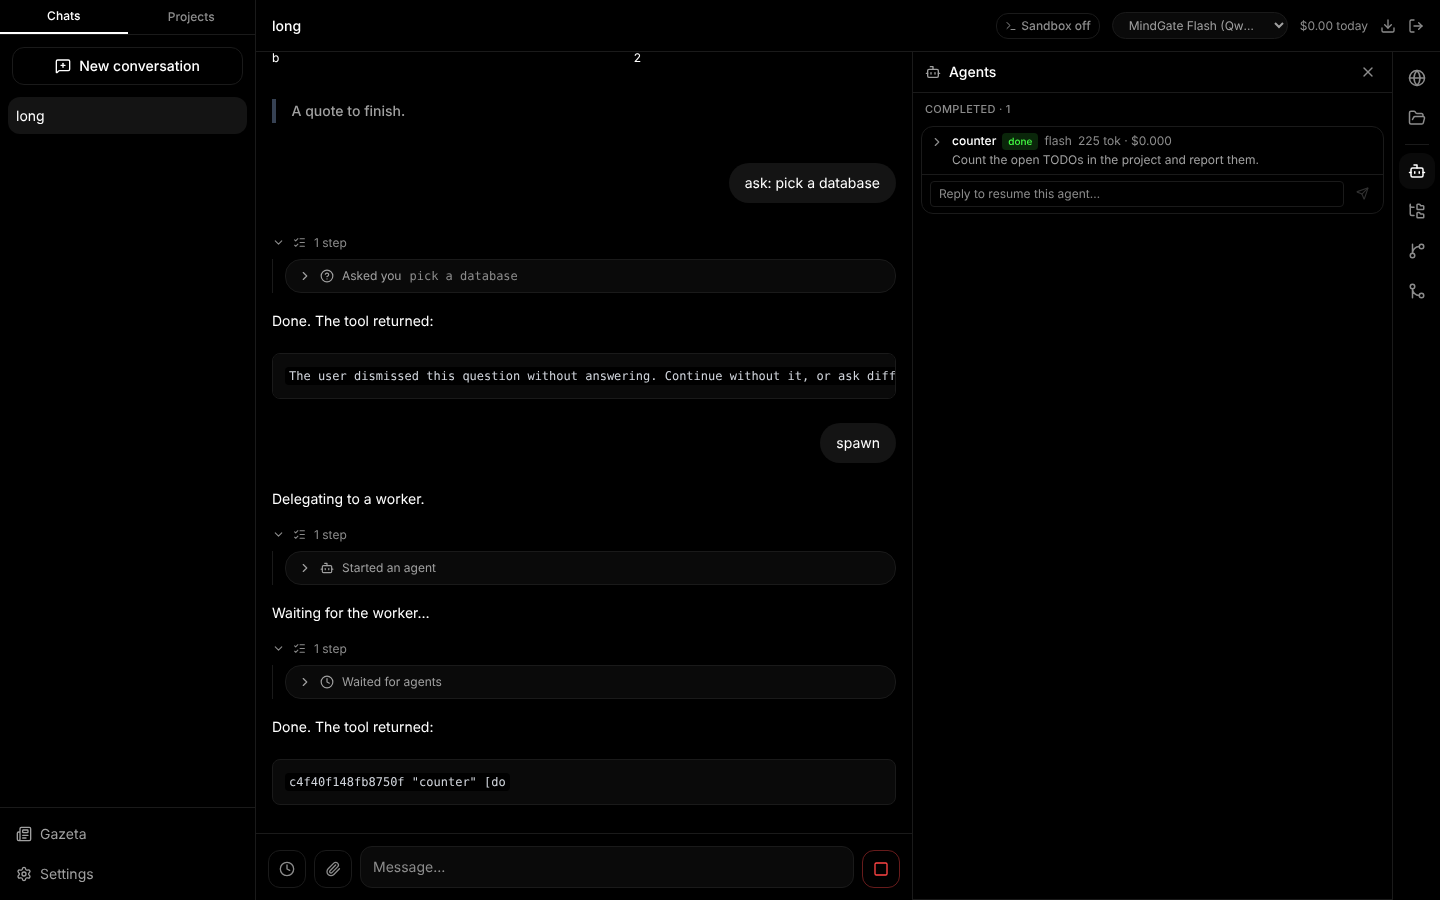
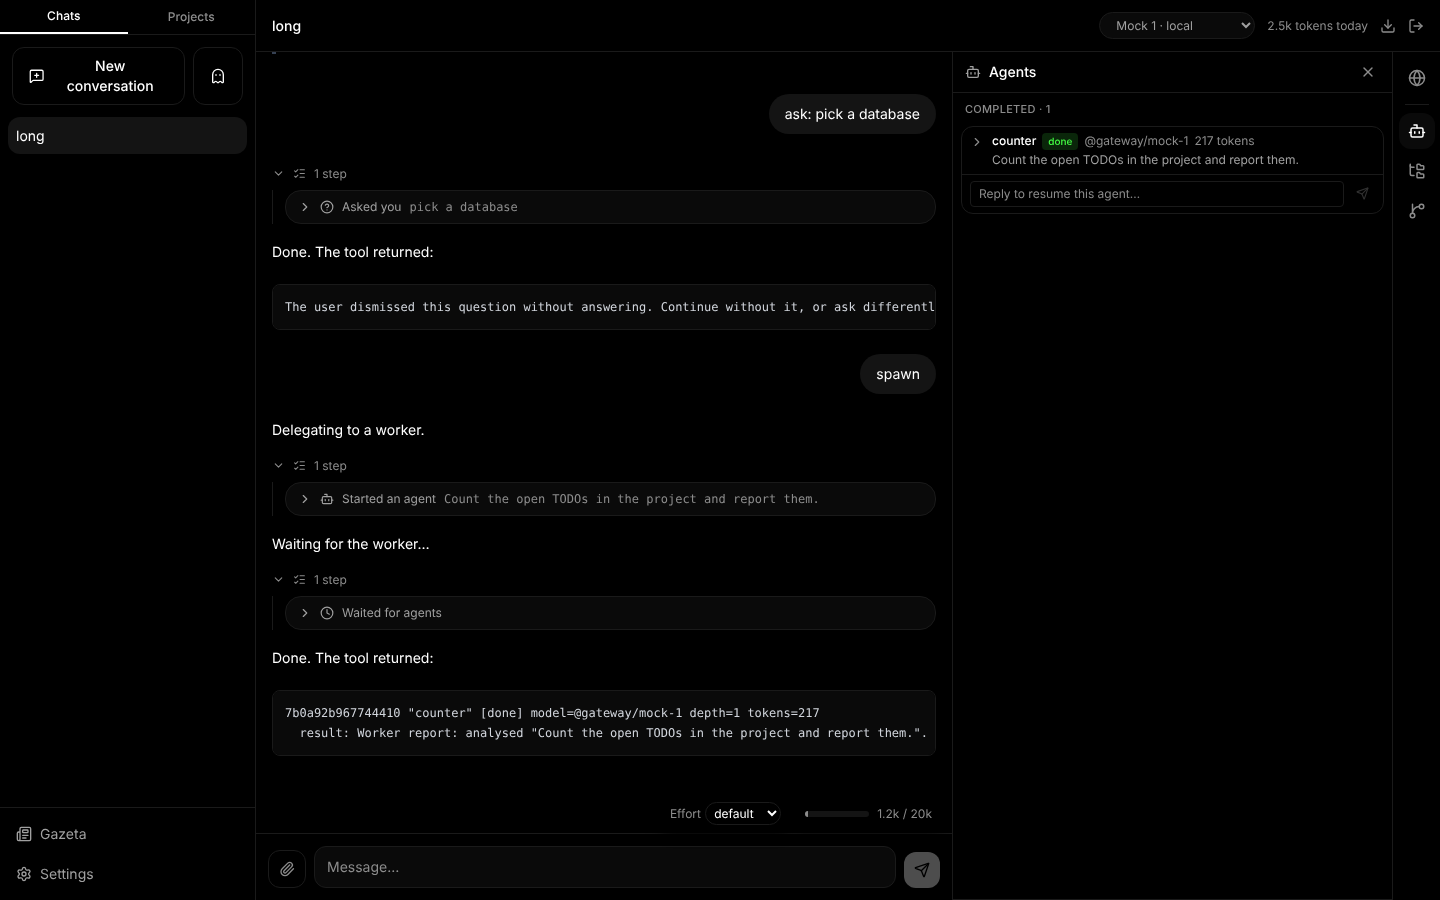
docs: rewrite the README, refresh the screenshots, replace the web boilerplate
Quickstart now matches the provider form (the MINDGATE_BASE_URL prefill is gone), repository URLs use the real name,
and claims that nothing in this repository backs up (a browser E2E suite, axe results, a test-count badge) are dropped.
The screenshot script also captures Settings → Models.

diff --git a/README.md b/README.md
@@ -1,134 +1,143 @@
 # EverythingApp
 
-[![CI](https://github.com/prod-explore/EverythingApp/actions/workflows/ci.yml/badge.svg)](https://github.com/prod-explore/EverythingApp/actions/workflows/ci.yml)
-![tests](https://img.shields.io/badge/tests-859%20passing-brightgreen)
+[![CI](https://github.com/prod-explore/everything-app/actions/workflows/ci.yml/badge.svg)](https://github.com/prod-explore/everything-app/actions/workflows/ci.yml)
 ![node](https://img.shields.io/badge/node-22-339933)
 ![license](https://img.shields.io/badge/license-MIT-blue)
 
-A **self-hosted, bring-your-own-key AI workspace**: multi-provider chat, a sandboxed code agent that can browse the web and work with Git, multi-agent delegation with a free-model cost guard, and a human-in-the-loop inbox — designed so that the *model is never trusted*, only the action layer is.
+A **self-hosted, bring-your-own-key AI workspace** for one person: multi-provider chat, a sandboxed code agent that can browse the web and work with Git, multi-agent delegation behind a cost guard, and a human-in-the-loop inbox. It is built on one rule: **the model is never trusted — only the action layer is.**
 
 ![Chat](docs/img/chat.png)
 
 <table>
 <tr>
 <td width="50%"><img src="docs/img/question.png" alt="Agent asks a question"><br><sub>Agents ask blocking questions (choices, free text, forms) or park them in the inbox.</sub></td>
-<td width="50%"><img src="docs/img/agents.png" alt="Agents panel"><br><sub>Workers keep their transcript; finished agents stay under <i>Completed</i> and can be resumed.</sub></td>
+<td width="50%"><img src="docs/img/agents.png" alt="Agents panel"><br><sub>Workers keep their transcript; finished ones stay under <i>Completed</i> and can be resumed.</sub></td>
 </tr>
 <tr>
-<td><img src="docs/img/search.png" alt="Full-text search"><br><sub>SQLite FTS5 search over every message (⌘/Ctrl+K).</sub></td>
+<td><img src="docs/img/models.png" alt="Providers and model slots"><br><sub>A provider is a base URL and a key. Chat, helper, agent and escalation models are separate slots.</sub></td>
+<td><img src="docs/img/search.png" alt="Full-text search"><br><sub>SQLite FTS5 search over every message (Ctrl/⌘+K).</sub></td>
+</tr>
+<tr>
 <td><img src="docs/img/slash.png" alt="Slash commands"><br><sub>Slash commands in the composer.</sub></td>
+<td align="center"><img src="docs/img/mobile.png" alt="Mobile layout" width="180"><br><sub>Installable PWA, usable at 390 px.</sub></td>
 </tr>
 </table>
 
-<p align="center"><img src="docs/img/mobile.png" alt="Mobile" width="260"></p>
+<sub>Screenshots are taken from a seeded local run against a deterministic mock model (`tools/mock-llm`, `tools/screenshots.mjs`), so the replies are canned.</sub>
 
-## Highlights
+## What it does
 
-| Area | What it does |
-|---|---|
-| **Providers** | One OpenAI-compatible format for everything: a provider is just *base URL + key* — OpenAI, OpenRouter, a gateway such as MindGate, a LAN server all go through the same “Add provider” form, and the app has no code that depends on who the provider is. Models are discovered from `GET {base}/models` (with `kind` and free-form `tags`: `free`, `coder`, `reasoning`…) and can be edited per model. Internally one block-based message format of its own (no vendor SDK); the adapter translates. Models without tool calls are not supported. Thinking models show their reasoning in a collapsible block. The app keeps no prices — usage is counted in tokens, money is the gateway's job. Keys are AES-256-GCM encrypted at rest. |
-| **Model slots & cost guard** | Pick a chat default, a helper (titles, digest), an agent model and an escalation model. A chat on a `free` model can only start `free` workers unless “Allow agents to use paid models” is on. The orchestrator gets a generated list of the installed models and their tags to choose from. |
-| **Agents** | `spawn_agent` / `wait_agents` / `send_message`. Per-tree budgets, depth and spawn limits, kill switch. Finished workers can be resumed with a follow-up. |
-| **Sandbox** | Every chat has one (a project's chats share theirs): a Docker container with no secrets and no `docker.sock`. Files explorer (read-only preview, pencil to edit, pins at the top for what you want at hand) with a checkpoint before every edit, rollback, Source Control and GitHub in any chat. |
-| **Web access** | `web_search` (SearXNG or Brave, set in Settings → Web) and `web_fetch` (page → markdown, no JavaScript), plus a Playwright browser agent with live view. `web_fetch` opens addresses from your message or from search results freely (as in Claude) and asks per domain for any URL the model composed itself; the browser asks **once per domain** — Allow once / this chat / always — like Antigravity's browser agent; private networks are never reachable — with one exception: the chat's own dev server, which `preview_sandbox` links to the same browser over a private no-route-out network (see [ADR 0012](docs/adr/0012-web-access.md)). No model sits between a page and the agent. |
-| **Chat functions** | `read_file` / `edit_file` / `write_file` (text files are edited without asking — a checkpoint is taken every turn), task list the model keeps (`todo_write`), plan proposals (the model proposes, you approve, then it works), reasoning-effort control, `AGENTS.md` in the project workspace (`/init` has the assistant write it) and custom instructions, a context meter with automatic and manual compaction (older messages become a summary for the model; they stay visible), and plain-language errors with the right recovery button. |
-| **Ghost mode** | A chat or project that never leaves the machine: only models marked **local** (a MindGate node, or a LAN server you flagged), no web or browser tools, local-only helper and agents. Chosen when it is created and impossible to change afterwards — enforced by the database itself ([ADR 0013](docs/adr/0013-ghost-mode.md)). |
-| **Human in the loop** | Approval gate (inline cards), Gazeta inbox (blocking and async questions, reports), `policy.json` for always-allow / always-block. When something waits for you, the server can call a webhook (ntfy → your phone, Discord, Slack, …; Settings → Notifications) — a plain POST, no model involved, text minimal by default, content-free for private chats. |
-| **UX** | FTS5 search, Markdown/JSON export, message branching, quote-selection, slash commands, PWA, WCAG-AA clean (axe: 0 violations at 1440×900 and 390×844). |
+- **Any OpenAI-compatible provider.** A provider is just *base URL + key* — OpenAI, OpenRouter, LM Studio on the LAN, a gateway such as MindGate. There is no vendor SDK and no per-provider code; models are discovered from `GET {base}/models` and can be tagged and overridden. Keys are AES-256-GCM encrypted at rest. Details: [`docs/providers.md`](docs/providers.md).
+- **Model slots and a cost guard.** Separate models for chat, helper (titles, digest), agents and escalation. A chat on a `free` model can only start `free` workers unless paid ones are allowed.
+- **Multi-agent delegation.** `spawn_agent` / `wait_agents` / `send_message` with per-tree budgets, depth and spawn limits and a kill switch. Finished workers keep their transcript and can be resumed.
+- **A sandbox per chat.** A Docker container with no secrets and no `docker.sock` (a project's chats share one). File explorer, a checkpoint before every edit, rollback, source control and GitHub inside the app.
+- **Web access.** `web_search` (SearXNG or Brave), `web_fetch` (page → markdown, no JavaScript) and a Playwright browser agent with a live view you can take over. A URL the model composed itself needs your approval per domain; private networks are unreachable ([ADR 0012](docs/adr/0012-web-access.md)).
+- **Human in the loop.** Approval cards, blocking and asynchronous questions (the *Gazeta* inbox), `policy.json` for always-allow / always-block, and webhooks (ntfy, Discord, Slack…) when something waits for you.
+- **Ghost mode.** A chat or project that never leaves the machine: only models marked local, no web or browser tools. Chosen at creation and impossible to change afterwards — enforced by the database ([ADR 0013](docs/adr/0013-ghost-mode.md)).
+- **Long conversations.** A context meter, automatic and manual compaction (older messages become a summary for the model and stay visible), reasoning-effort control, plan proposals the model must get approved, and a task list it keeps.
+- **Everyday polish.** Full-text search, Markdown/JSON export, message branching, quoting a selection, slash commands, skills (reusable instructions with their own tool allow-list, auto-approved only for the turns they are attached to), PWA.
+- **Operable.** Consistent online backups, retention, schema versions and a network-layer egress guard for the browser ([ADR 0014](docs/adr/0014-data-lifecycle.md), [`deploy/`](deploy)).
+
+Single-user by design: one password, no accounts.
 
 ## Architecture
 
 ```mermaid
 flowchart LR
   subgraph Browser
-    UI[React 19 PWA<br/>assistant-ui · SSE]
+    UI[React 19 PWA<br/>REST · SSE · WebSocket]
   end
-  subgraph Orchestrator["Orchestrator (Node/Express)"]
-    API[REST + SSE]
-    LOOP[Agent loop<br/>tool registry · virtual tools]
+  subgraph Orchestrator["Orchestrator (Node, Express 5)"]
+    API[HTTP API<br/>session cookie]
+    LOOP[Agent loop<br/>tool registry]
     GATE[Approval gate<br/>+ policy.json]
     ROUTER[Provider router<br/>model catalog · key vault · retry]
-    AGENTS[AgentManager<br/>runs · budgets · cost guard]
-    DB[(SQLite<br/>FTS5)]
+    AGENTS[Agent manager<br/>budgets · cost guard]
+    DB[(SQLite · FTS5)]
   end
-  subgraph Isolated["Isolated networks"]
+  subgraph Isolated["Isolated Docker networks"]
     SUP[sandbox-supervisor] --> SBX[(sandbox<br/>container)]
-    PW[playwright-mcp]
+    PW[playwright-mcp<br/>browser agent]
     GP[git-proxy<br/>scoped tokens]
   end
   UI <--> API
-  API --> LOOP --> ROUTER --> LLM{{OpenAI-compatible providers<br/>any OpenAI-compatible API · gateway · local}}
-  LOOP --> GATE --> MCP[MCP: sandbox · browser · GitHub · custom]
-  LOOP --> AGENTS --> LOOP
   API --- DB
-  MCP --> SUP
-  MCP --> PW
+  API --> LOOP --> ROUTER --> LLM{{"LLM providers<br/>OpenAI-compatible: cloud · gateway · local"}}
+  LOOP --> GATE --> TOOLS["Tools: sandbox · browser · web · connectors"]
+  LOOP --> AGENTS --> LOOP
+  TOOLS --> SUP
+  TOOLS --> PW
   SBX -. git over HTTP, no credentials .-> GP --> GH[(github.com)]
   GP -- push approval --> GATE
 ```
 
-Packages: `cli` (orchestrator), `web` (UI), `sandbox-supervisor` + `sandbox-mcp` (container lifecycle and its MCP tools), `playwright-mcp` (browser agent), `git-proxy` (the only thing that ever sees a GitHub token), `tools/mock-llm` (deterministic fake model used by E2E and the screenshots above).
+| Package | Role |
+|---|---|
+| [`cli`](cli) | The orchestrator: HTTP API, agent loop, provider router, approval gate, SQLite. Serves the built UI. |
+| [`web`](web) | The React UI ([notes](web/README.md)). |
+| [`sandbox-supervisor`](sandbox-supervisor) | The only component that talks to Docker: container lifecycle, exec, files, volumes. |
+| [`sandbox-mcp`](sandbox-mcp) | The sandbox's tools (shell, git, checkpoints, terminals) as an MCP server in front of the supervisor. |
+| [`playwright-mcp`](playwright-mcp) | Browser agent: domain policy, SSRF guard, deterministic page filtering, live view. |
+| [`git-proxy`](git-proxy) | Holds the GitHub credentials the sandbox never sees: scoped tokens, repo binding, push approval, audit. |
+| [`tools/mock-llm`](tools/mock-llm) | Deterministic fake model used for the quickstart, tests and screenshots. |
+
+Design decisions are written down as short ADRs in [`docs/adr`](docs/adr) — canonical message format, policy as a file, sandbox and Git credentials, cookie sessions, lazy FTS index, the provider catalog, context management, hardening, web access, ghost mode, data lifecycle.
 
 ## Security model
 
 The model is treated as an untrusted component. The boundary is the **action layer**, not the prompt.
 
-1. **Approval gate** – every tool call with a side effect becomes an approval card; grants are scoped (this call / this project / this prefix). Shell commands go through a policy engine (`strict`, `allowlist`, `auto-in-sandbox`); destructive patterns are always blocked.
-2. **No secrets in the sandbox** – the container has no API keys, no `docker.sock`, no database. Git goes through `git-proxy`, which holds the token, mints short-lived scoped tokens and asks a human before any push to a protected branch.
-3. **Untrusted web content, no model in between** – pages and search results are sanitised by code (invisible Unicode stripped), wrapped as untrusted data and scored by a deterministic injection heuristic; a flagged page makes every later effectful call ask again. A model-composed URL needs your approval per domain, so reading a file and sending it to a new site needs a click ([ADR 0012](docs/adr/0012-web-access.md)).
-4. **Sessions** – password login, HttpOnly cookie; no token in `localStorage` or URLs. WebSocket/SSE accept the cookie (or a Bearer header) only (cross-origin upgrades are rejected).
-   **Service secrets** – every service-to-service token (`SUPERVISOR_TOKEN`, `MCP_API_KEY`, `PLAYWRIGHT_MCP_API_KEY`, `GIT_PROXY_ADMIN_TOKEN`, `SERVER_AUTH_TOKEN`) must be generated; services refuse to start with a placeholder or a short value. The nginx example blocks `/internal/*`.
-5. **Audit log** – approvals, grants, pushes and file edits are recorded.
-   **Ghost chats** – private material stays on local models and local tools; the flag cannot be switched off ([ADR 0013](docs/adr/0013-ghost-mode.md)).
-6. **Policy as a file** – always-allow / always-block prefixes and known domains live in `policy.json` (hot-reloaded), not in a UI an agent could be talked into editing. Details in [ADR 0002](docs/adr/0002-policy-file-not-ui.md).
+1. **Approval gate.** Every tool call with a side effect becomes an approval card; grants are scoped (this call / this project / this prefix). Shell commands go through a policy engine (`strict`, `allowlist`, `auto-in-sandbox`) and destructive patterns are always blocked.
+2. **No secrets in the sandbox.** The container has no API keys, no `docker.sock`, no database. Git goes through `git-proxy`, which holds the token, mints short-lived scoped tokens and asks a human before any push to a protected branch ([ADR 0003](docs/adr/0003-sandbox-and-git-credentials.md)).
+3. **Untrusted web content, no model in between.** Pages and search results are sanitised by code (invisible Unicode stripped), wrapped as untrusted data and scored by a deterministic injection heuristic; a flagged page makes every later effectful call ask again. Reading a file and sending it to a new site takes a click.
+4. **SSRF guard in two layers.** The URL checks in `cli` and `playwright-mcp` refuse private, link-local and metadata addresses; [`deploy/egress-guard.sh`](deploy/egress-guard.sh) enforces the same at the network layer for the browser's Docker bridge.
+5. **Sessions.** Password login, HttpOnly cookie, no token in `localStorage` or URLs; WebSocket and SSE accept the cookie (or a Bearer header) and reject cross-origin upgrades. Failed logins are throttled.
+6. **Service secrets.** Every service-to-service token must be generated; services refuse to start with a placeholder, a short or a repetitive value ([ADR 0011](docs/adr/0011-hardening.md)). The web, git-proxy and sandbox-mcp containers drop all capabilities and set `no-new-privileges`; published ports bind to `127.0.0.1` unless you change `GIT_PROXY_BIND` on purpose.
+7. **Audit log and policy as a file.** Approvals, grants, pushes and file edits are recorded. Allow/block lists live in a hot-reloaded `policy.json`, not in a UI an agent could be talked into editing ([ADR 0002](docs/adr/0002-policy-file-not-ui.md)).
 
 ## Quickstart (no Docker, no API key)
 
-Runs the whole UI against the deterministic mock model:
+Runs the whole UI against the mock model:
 
 ```bash
-git clone https://github.com/prod-explore/EverythingApp && cd EverythingApp
+git clone https://github.com/prod-explore/everything-app && cd everything-app
 (cd cli && npm ci && npm run build)
 (cd web && npm ci && npx vite build)
 
 node tools/mock-llm/server.mjs &                      # fake OpenAI-compatible model on :4010
 cd cli
 SERVER_AUTH_TOKEN=$(openssl rand -hex 32) SERVER_PASSWORD=dev \
-KEY_VAULT_SECRET=$(openssl rand -hex 32) \
-MINDGATE_BASE_URL=http://127.0.0.1:4010/v1 PORT=3000 node dist/server.js
+KEY_VAULT_SECRET=$(openssl rand -hex 32) PORT=3000 node dist/server.js
 ```
 
-Open <http://localhost:3000>, log in with the password `dev`, then **Settings → Models → + MindGate** (the base URL is pre-filled from `MINDGATE_BASE_URL`): paste any key; the mock's models appear after the model list loads (it reports them as local, so the ghost button works too). Try `ask: which database?`, `report`, `spawn`, `long`.
+Open <http://localhost:3000> and log in with the password `dev`. Then **Settings → Models → + Add provider**: slug `mock`, base URL `http://127.0.0.1:4010/v1`, any API key. The mock's models appear after the list loads; it reports them as local, so ghost chats work too. Try `ask: which database?`, `report`, `spawn`, `plan: refactor`, `todo`, `long`. Data goes to `~/.everythingapp/` (`EVERYTHINGAPP_DB_PATH` overrides the database path).
 
-### Full stack (sandbox, browser, git)
+### Full stack (sandbox, browser, Git)
 
 ```bash
-cp .env.example .env     # fill in DOCKER_GID and every secret (openssl rand -hex 32): KEY_VAULT_SECRET, SERVER_AUTH_TOKEN,
-                         # MCP_API_KEY, PLAYWRIGHT_MCP_API_KEY, SUPERVISOR_TOKEN, GIT_PROXY_ADMIN_TOKEN
+cp .env.example .env     # set DOCKER_GID and every secret (openssl rand -hex 32):
+                         # KEY_VAULT_SECRET, SERVER_AUTH_TOKEN, MCP_API_KEY,
+                         # PLAYWRIGHT_MCP_API_KEY, SUPERVISOR_TOKEN, GIT_PROXY_ADMIN_TOKEN
 docker build -t everything-sandbox:latest ./sandbox-supervisor/sandbox-image/
 docker compose up --build
 ```
 
-Deployment notes for a Raspberry Pi (egress guard, Nginx + HTTPS) are in [`deploy/`](deploy).
+The app listens on `127.0.0.1:3000`. To put it behind HTTPS, copy [`deploy/nginx-everythingapp.conf.example`](deploy/nginx-everythingapp.conf.example) (it also blocks `/internal/*`); if your reverse proxy is a container on its own Docker network, [`deploy/docker-compose.override.example.yml`](deploy/docker-compose.override.example.yml) joins the web container to it. On a Linux host, also install the egress guard that keeps the browser's network away from your LAN (`deploy/egress-guard.sh`, `deploy/ea-egress-guard.service`).
 
-**Backups.** `deploy/backup.sh [dir] [keep]` takes a consistent copy of the database from the running stack (cron it); restoring is `db-backup.js restore <file> --yes` with the server stopped. The copy holds all chats and the encrypted provider keys — keep `KEY_VAULT_SECRET` too, and encrypt the file before it leaves the machine. Usage/audit rows older than `RETENTION_MONTHS` (12) are removed daily. Details: [ADR 0014](docs/adr/0014-data-lifecycle.md).
+**Backups.** `deploy/backup.sh [dir] [keep]` takes a consistent copy of the database from the running stack (cron it); restoring is `db-backup.js restore <file> --yes` with the server stopped. The copy holds all chats and the encrypted provider keys — keep `KEY_VAULT_SECRET` separately and encrypt the file before it leaves the machine. Usage and audit rows older than `RETENTION_MONTHS` (12) are removed daily.
 
 ## Development
 
 ```bash
-cd cli && npm test            # 476 tests (node:test, in-memory SQLite, fake providers)
-cd git-proxy && npm test      #  40
-cd sandbox-mcp && npm test    #  18
-cd sandbox-supervisor && npm test  # 83
-cd playwright-mcp && npm test #  242
-cd web && npx tsc -b && npx vite build
+cd cli && npm ci && npm test            # node:test, in-memory SQLite, fake providers
+cd git-proxy && npm ci && npm test
+cd sandbox-mcp && npm ci && npm test
+cd sandbox-supervisor && npm ci && npm test
+cd playwright-mcp && npm ci && npm test
+cd web && npm ci && npm run typecheck && npm run lint && npm test && npm run build
 ```
 
-CI runs all of the above on every push, plus `npm audit` (runtime dependencies), a Docker build of every image, CodeQL and a secret scan. The browser E2E (Playwright against the mock stack) checks the main flows plus console errors at 1440×900 and 390×844.
-
-## Design decisions
-
-Providers, model discovery, slots and the cost guard are documented in [`docs/providers.md`](docs/providers.md). Short ADRs in [`docs/adr`](docs/adr): canonical message format, policy file, sandbox/Git credentials, session cookies, lazy FTS5 index, the unified provider catalog (which supersedes the earlier cost-tier and batch-worker decisions), context management and chat functions, [ADR 0011](docs/adr/0011-hardening.md) (service secrets, supervisor token, deployment hardening) and [ADR 0012](docs/adr/0012-web-access.md) (web search/fetch, per-domain approval), [ADR 0013](docs/adr/0013-ghost-mode.md) (ghost mode) and [ADR 0014](docs/adr/0014-data-lifecycle.md) (schema versions, backups, retention).
+About a thousand tests across the six packages. CI runs all of the above on every push, validates the compose file, builds every Docker image, runs `npm audit` on runtime dependencies (high and critical fail the build), CodeQL and a secret scan. The web package lints with `oxlint --deny-warnings`.
 
 ## License
 

diff --git a/web/README.md b/web/README.md
@@ -1,32 +1,27 @@
-# React + TypeScript + Vite
+# web
 
-This template provides a minimal setup to get React working in Vite with HMR and some Oxlint rules.
+The EverythingApp UI: React 19, Vite, Tailwind 4, [assistant-ui](https://www.assistant-ui.com) for the chat primitives. It talks to the orchestrator in [`../cli`](../cli) over REST and SSE with a session cookie; there is no token in `localStorage` or in URLs.
 
-Currently, two official plugins are available:
-
-- [@vitejs/plugin-react](https://github.com/vitejs/vite-plugin-react/blob/main/packages/plugin-react) uses [Oxc](https://oxc.rs)
-- [@vitejs/plugin-react-swc](https://github.com/vitejs/vite-plugin-react/blob/main/packages/plugin-react-swc) uses [SWC](https://swc.rs/)
-
-## React Compiler
-
-The React Compiler is not enabled on this template because of its impact on dev & build performances. To add it, see [this documentation](https://react.dev/learn/react-compiler/installation).
-
-## Expanding the Oxlint configuration
-
-If you are developing a production application, we recommend enabling type-aware lint rules by installing `oxlint-tsgolint` and editing `.oxlintrc.json`:
-
-```json
-{
-  "$schema": "./node_modules/oxlint/configuration_schema.json",
-  "plugins": ["react", "typescript", "oxc"],
-  "options": {
-    "typeAware": true
-  },
-  "rules": {
-    "react/rules-of-hooks": "error",
-    "react/only-export-components": ["warn", { "allowConstantExport": true }]
-  }
-}
+```bash
+npm ci
+npm run dev                          # Vite on :5173, proxies /api to http://localhost:3000
+API_TARGET=http://localhost:3100 npm run dev   # …or to another backend
+npm run typecheck && npm run lint && npm test
+npm run build                        # tsc -b && vite build → dist/ (served by the orchestrator)
 ```
 
-See the [Oxlint rules documentation](https://oxc.rs/docs/guide/usage/linter/rules) for the full list of rules and categories.
+`npm run lint` is `oxlint --deny-warnings`: a new warning fails CI.
+
+## Layout
+
+| Path | What lives there |
+|---|---|
+| `src/App.tsx` | Shell: sidebar (chats, projects), chat, side panels |
+| `src/components/chat` | Messages, composer, the effort/context controls, blocking questions |
+| `src/components/approval` | Inline approval cards |
+| `src/components/{agents,gazeta,browser,files,scm,git,github,workspace}` | Side panels: workers, inbox, live browser view, file explorer, source control |
+| `src/components/settings` | Providers, model slots, usage, connectors, web access, notifications, skills |
+| `src/hooks` | Data hooks: conversations, SSE stream, approvals, models, settings |
+| `src/api.ts` | Typed fetch layer; every call goes through one place that handles auth expiry |
+
+The live browser view streams JPEG frames from `playwright-mcp` over a WebSocket that the orchestrator relays (same origin, cookie-authenticated, no second port). You can watch, or take control; the panel reports its size so the remote viewport matches it.
